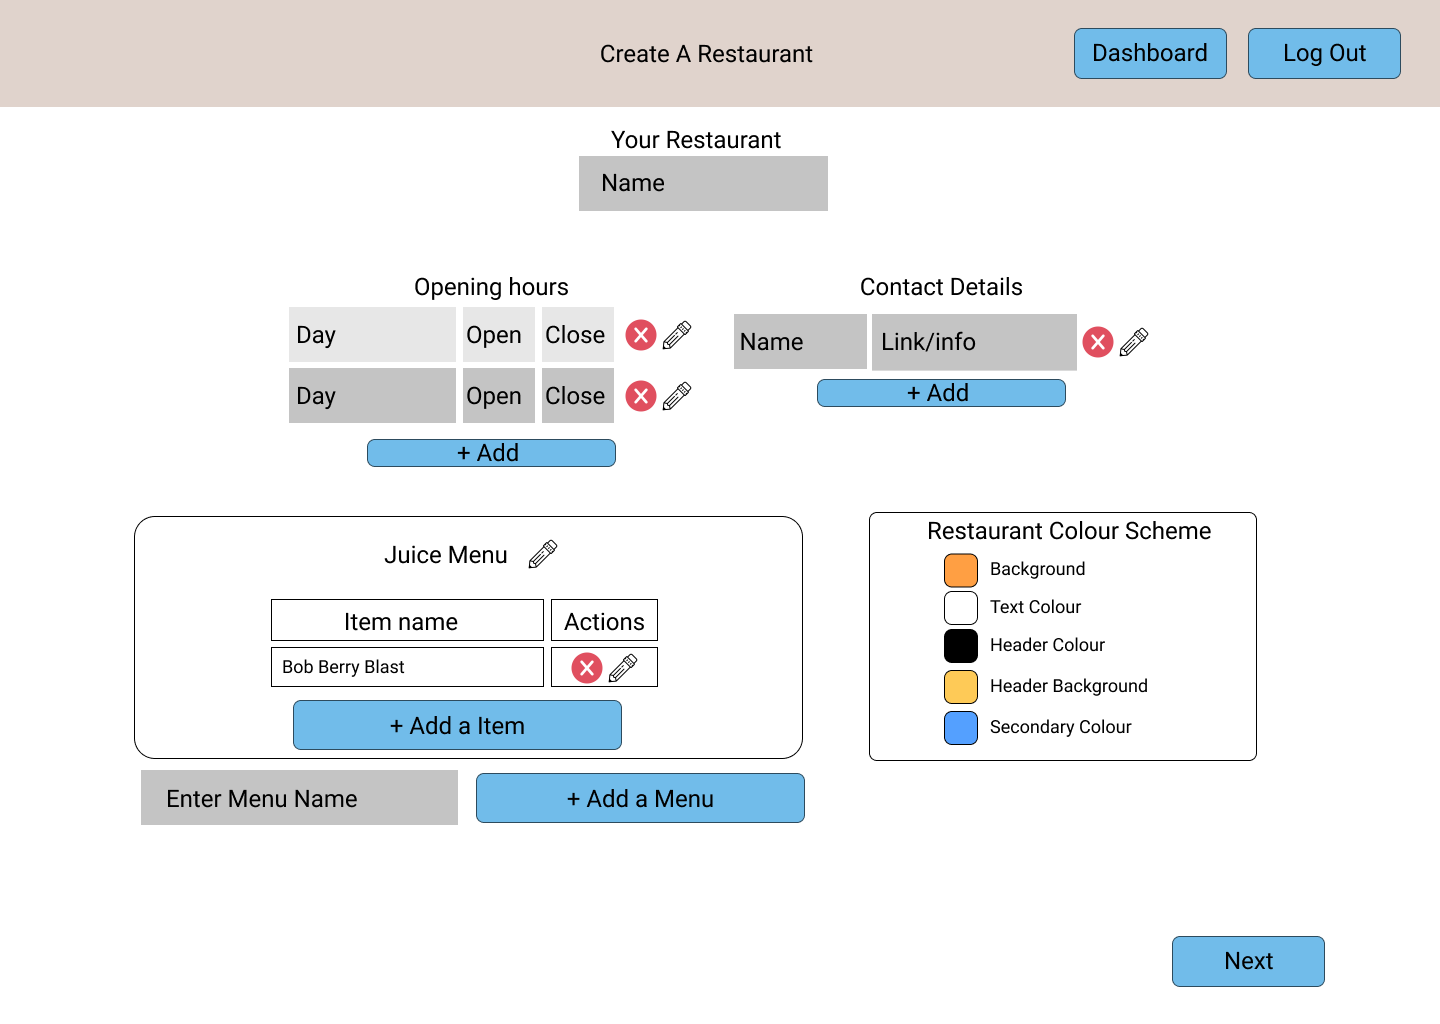
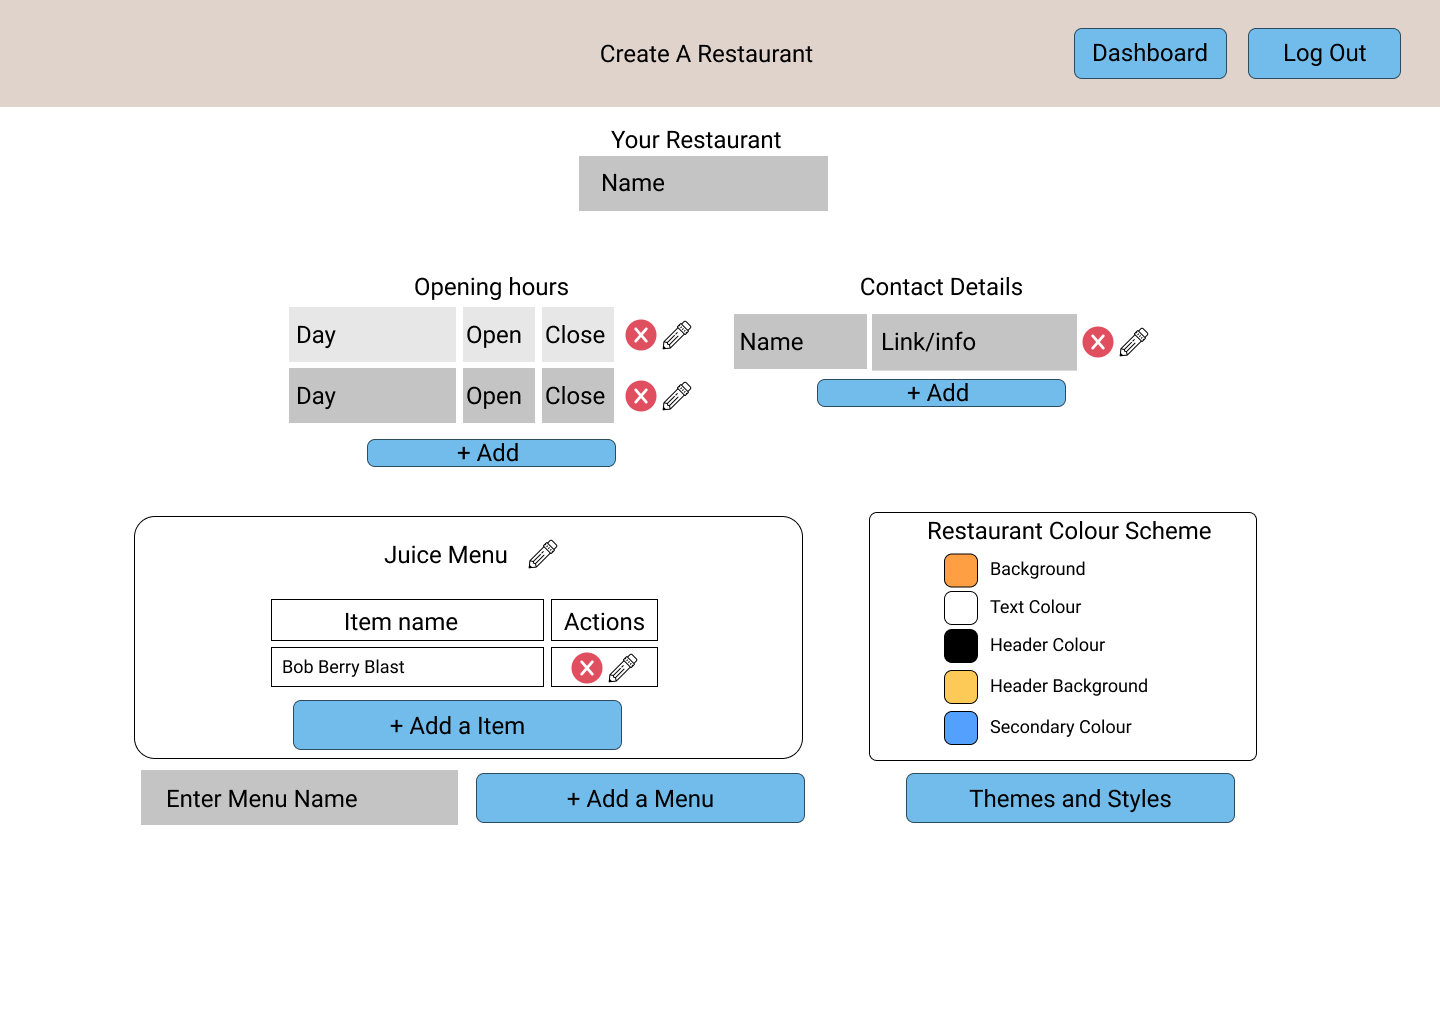
PM: Added Trello shots and some more annotations for wirframes

Changed region(s): [[0.625, 0.75, 0.875, 0.8125], [0.8125, 0.9062, 0.9375, 0.9688]]

diff --git a/README.md b/README.md
@@ -14,24 +14,24 @@ The final application should have the following features
 
 - Account registration - User should be able to sign up for a new account
 - Log in functionality - Registered User should be able to log in to their accounts
-- Create a restaurant web page - A user should be able to create add a new restaurant
+- Create a restaurant web page - A user should be able to create and add a new restaurant page
 - Create/Add a menu to a restaurant - Users should have the ability to add one or more menus to their restaurants
 - Create/Add items to menus - Users should be able to add items to their menus
 - Tag items - Items should be able to have one or several different tags such as dietary information like vegan, gluten free etc.
 - Add ingredients to items - A user should be able to add ingredients to their items
 - Different sizes or prices - A user should be able to have different sizes of item that can have different prices. For examples glass of wine or bottle of wine.
-- Pick different themes for restaurants, menus and items - Users should be able to pick different layouts/themes for their restaurant page as well as the menus and items
+- Pick different themes for menus and items - Users should be able to pick different layouts/themes for their menus and items
 - Pick different colours and styles for restaurant, menus and items - A user should be able to customize the colours, fonts and styles of their restaurant page, menu sections and each item in their menus.
 - Add extra contact information - A user should be able to add additional information about their restaurant such as google maps link, phone number, social media or delivery service.
 - Edit their webpage - Users should be able to edit their restaurant web page including themes, styles and information.
-- Unique URls - Restaurants should have unique web urls
+- Unique URLs - Restaurants should have unique web urls
 - View their webpage - Anybody should be able to view the restaurants webpage
 
 # Target Audience
 
 The target audience for this project is aimed specifically at small restaurant owners who may not have their own website or web presence. This service is to give those small business owner an opportunity to have an customizable webpage to show case their restaurant. This site could also be suitable for larger restaurant owners who want a quick and easy way to get some online presence without having to build their own website.
 
-It will also target everyday restaurants customer who are looking for more information about local smaller restaurants online and want to see their menu offerings as well as filter through their menu depending on different criterias.0
+It will also target everyday restaurants customer who are looking for more information about local smaller restaurants online and want to see their menu offerings as well as filter through their menu depending on different criteria.
 
 # Tech Stack
 
@@ -42,6 +42,7 @@ Backend Language/Framework
 Front End Framework
 
 - React
+- CSS/SASS
 
 Database
 
@@ -121,87 +122,225 @@ My name is The Zuck, I want to find out what my local Chilean restaurant offers 
 
 ![Application Architecture Diagram](./resources/AppArchitectureDiagram.png)
 
-# Wireframes
+# Wire Frames
 
-Below are the wireframes for this project, to better understand them the following legend has been provided.
+Below are the wire frames for this project, to better understand them the following legend has been provided.
 
-![Wire Frame Legend](./resources/wireframes/mobile/legend.png)
+![Wire Frame Legend](./resources/wireframes/mobile/Legend.png)
 
 As shown on the legend above image place holder are represented by large grey square, user input by grey rectangles with text and button by blue rounded rectangles.
 
 ## Mobile
 
+### Landing Page
+
 ![Landing Page](./resources/wireframes/mobile/Landing.png)
+
+The landing page will have a large image as a background.
+
+### Log In
 
 ![Login](./resources/wireframes/mobile/Login.png)
 
+### Sign Up
+
 ![Sign Up](./resources/wireframes/mobile/CreateAccount.png)
+
+### Update Account
 
 ![Update Account](./resources/wireframes/mobile/UpdateAccount.png)
 
+### User DashBoard
+
 ![Account](./resources/wireframes/mobile/Account.png)
 
+Clicking the edit button will allow a user to change their password, name and email.
+
+### Restaurant Creation
+
 ![Create Restaurant](./resources/wireframes/mobile/CreateRestaurant.png)
+
+Clicking add for opening hours and contact details will add a form below each section respectively to allow for a user to fill in and add a new entry.
+
+Clicking the colours in the colour scheme will open a colour selector in which a user could select a colour.
+
+Filling in the text input labelled "Enter Menu Name" and pressing Add a Menu will add a new Menu.
+
+### Menu Theme Selection
 
 ![Pick Menu Theme](./resources/wireframes/mobile/PickMenuTheme.png)
 
+Clicking the colours in the colour scheme will open a colour selector in which a user could select a colour.
+
+### Item Theme Selection
+
 ![Pick Item Theme](./resources/wireframes/mobile/PickItemTheme.png)
 
-![Create Restaurant](./resources/wireframes/mobile/CreateRestaurant.png)
+Clicking the colours in the colour scheme will open a colour selector in which a user could select a colour.
+
+### Menu Item 
 
 ![Add Item](./resources/wireframes/mobile/AddItem.png)
 
-![Filter Options Menu](./resources/wireframes/mobile/FilterOptionsMenu.png)
+Pressing the grey image box below will allow you to upload an image.
+
+### Menu View 
+
+This wire frame shows how the menu might look like on a final page restaurant page.
 
 ![Menu View](./resources/wireframes/mobile/MenuView.png)
 
-![Filter Options Menu 2](./resources/wireframes/mobile/FilterOptionsMenu-1.png)
+### Tag Filter Selection
 
+The following wire frames shows how filtering of tags might work on a final page.
+
+![Filter Options Menu](./resources/wireframes/mobile/FilterOptionsMenu.png)
+
+![Filter Options Menu 2](./resources/wireframes/mobile/FilterOptionsMenu-1.png)
 
 ## Desktop
 
+### Landing Page
+
 ![Landing Page](./resources/wireframes/desktop/Landing.png)
 
-![Create a restaurant](./resources/wireframes/desktop/CreateARestaurant.png)
+The landing page will have a large image as a background.
 
-![Login](./resources/wireframes/desktop/Login.png)
+### Log In
 
+![Login](./resources/wireframes/desktop/LogIn.png)
 
-
-![RestuarantEditView](./resources/wireframes/desktop/RestaurantEditView.png)
-
-![RestuarantView](./resources/wireframes/desktop/RestaurantView.png)
-
-![User Dashboard](resources/wireframes/desktop/UserDashboard.png)
+### Sign Up
 
 ![Create Account](./resources/wireframes/desktop/CreateAccount.png)
 
-## Custom templates
+### User DashBoard
+
+![User Dashboard](resources/wireframes/desktop/UserDashboard.png)
+
+Clicking the edit button will allow a user to change their password, name and email.
+
+The grey image box will show a preview of the website.
+
+Clicking add for opening hours and contact details will add a form below each section respectively to allow for a user to fill in and add a new entry.
+
+### Restaurant Creation
+
+![Create a restaurant](./resources/wireframes/desktop/CreateARestaurant.png)
+
+Clicking add for opening hours and contact details will add a form below each section respectively to allow for a user to fill in and add a new entry.
+
+Clicking the colours in the colour scheme will open a colour selector in which a user could select a colour.
+
+Filling in the text input labelled "Enter Menu Name" and pressing Add a Menu will add a new Menu.
+
+### Item Page
+
+![Item Page](./resources/wireframes/desktop/ItemPage.png)
+
+Pressing the grey image box below will allow you to upload an image.
+
+## Theme Selection
+
+![Theme Selection](resources/wireframes/desktop/StylePage.png)
+
+Clicking the colours in the colour scheme will open a colour selector in which a user could select a colour.
+
+The images will give you a preview of the themes chosen.
+
+### Restaurant Edit View
+
+![Restaurant Edit View](./resources/wireframes/desktop/RestaurantEditView.png)
+
+In this view you should be able to press an item/menu/the restaurant to get a colour selector to choose some of the colours. Clicking any of the edit icon will bring you to the appropriate pages for editing.
+
+### Restaurant View
+
+![Restaurant View](./resources/wireframes/desktop/RestaurantView.png)
+
+This is what a final page restaurant may look like on desktop.
+
+## Custom Templates
 
 Restaurant owners will be given three templates for their menus and menu items below are the wire frames that outline how these would look like both on mobile and desktop.
+
+### Menu Templates
+
+#### Menu Template 1
 
 ![Menu Template 1](resources/wireframes/desktop/MenuTemplate1.png)
 
 ![Menu Template 1](resources/wireframes/mobile/MenuTemplate1.png)
 
+#### Menu Template 2
+
 ![Menu Template 2](resources/wireframes/desktop/MenuTemplate2.png)
 
 ![Menu Template 2](resources/wireframes/mobile/MenuTemplate2.png)
+
+#### Menu Template 3
 
 ![Menu Template 3](resources/wireframes/desktop/MenuTemplate3.png)
 
 ![Menu Template 3](resources/wireframes/mobile/MenuTemplate3.png)
 
+### Item Templates
+
 Items template will look the same on both desktop and mobile
+
+#### Item Template 1
 
 ![Item Template 1](./resources/wireframes/desktop/ItemTemplate1.png)
 
+#### Item Template 2
+
 ![Item Template 2](./resources/wireframes/desktop/ItemTemplate2.png)
+
+#### Item Template 3
 
 ![Item Template 3](./resources/wireframes/desktop/ItemTemplate3.png)
 
+### Final Template
+
 This is what a web page may look like both on mobile and desktop after these templates has been applied.
 
-![Restaurant Mobile Template](resources/wireframes/Mobile/RestaurantTemplate.png)
+![Restaurant Mobile Template](resources/wireframes/mobile/RestaurantTemplate.png)
 
-![Restaurant Desktop Template](resources/wireframes/desktop/Desktop-1.png)
+![Restaurant Desktop Template](resources/wireframes/mobile/Desktop-1.png)
+
+# Task Management
+
+To organise and manage task we will be using Trello. Trello will allow us to track the task which each team members are working on as well as track the task status. The way our task workflow would work is, a new task will first be created in the to do list at which point it will be labelled by the different labels explained here:
+
+- Code - This specify a task required coding
+- Structure - This task involved adding or structuring the code or project, often involving command lines.
+- Design - This task involves anything to do with aesthetics of the project
+- Project Management - A PM task often involves documentation or the management of the project
+- Bug - This specifies a task that involved fixing a problem or error
+- Testing - This task involves creating tests.
+
+We will also assign a due date and any other relevant information to each card. When we start working on a task we will assign ourselves to the task and move it to the doing list. Once a task is completed if it is a code task we move it to the testing list to go through testing. After the task has been tested or if its a non-code task a task will be moved to review where the task will be reviewed by another team member before being moved to Done. Review is also where any code refactoring will be done. Tasks can be moved back and forth between the list depending on if more work needs to be done on them or if tests fails. The following screenshots are screenshots of the Trello board for each day since the project start.
+
+## Tuesday 14-07-2020
+
+![Day 1 Trello](./resources/trello/Screenshot_2020-07-14%20T3A2%20-%20Final%20Project%20Trello.jpg)
+
+## Wednesday 15-07-2020
+
+![Day 2 Trello](./resources/trello/Screenshot_2020-07-15%20T3A2%20-%20Final%20Project%20Trello.jpg)
+
+## Thursday 16-07-2020
+
+![Day 3 Trello](./resources/trello/Screenshot_2020-07-16%20T3A2%20-%20Final%20Project%20Trello.jpg)
+
+## Friday 17-07-2020
+
+![Day 4 Trello](./resources/trello/Screenshot_2020-07-17%20T3A2%20-%20Final%20Project%20Trello.jpg)
+
+## Saturday 18-07-2020
+
+![Day 5 Trello](./resources/trello/Screenshot_2020-07-18%20T3A2%20-%20Final%20Project%20Trello.jpg)
+
+## Sunday 19-07-2020
+
+![Day 6 Trello](./resources/trello/Screenshot_2020-07-19%20T3A2%20-%20Final%20Project%20Trello.jpg)
